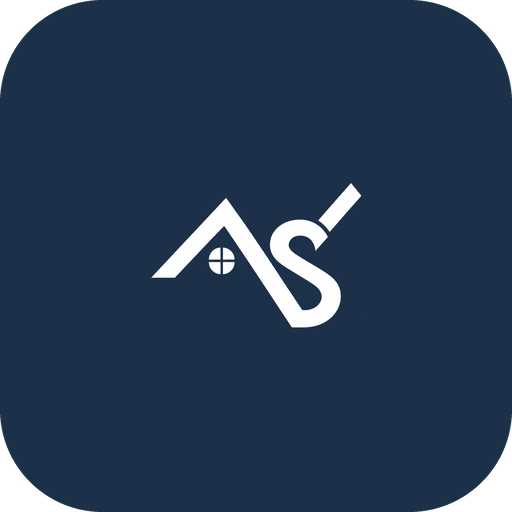
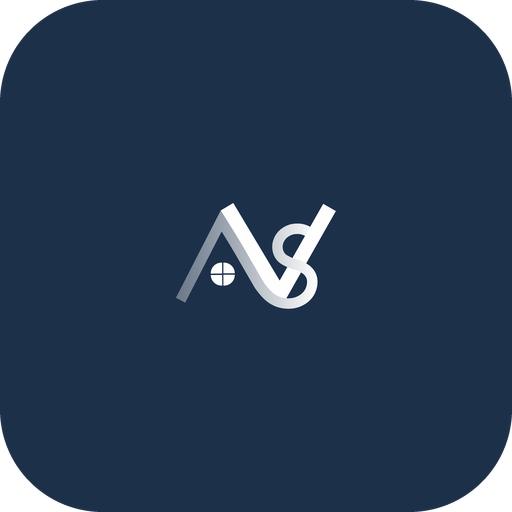
Combine new house/V/S graphic with existing wordmark
Replace the logo's left-side mark with the gradient house/V/S graphic from
the updated brand art, keeping the VICTORY SPRINGS / REALTY GROUP wordmark.
Navy variant maps the gradient to #1C304A; white variant fades via opacity.
Favicons and og-image regenerated from the new mark.

Claude-Session: https://claude.ai/code/session_01C6Rcze9nh4MgRA85bCENKt

Changed region(s): [[0.2812, 0.3438, 0.7188, 0.6562]]

diff --git a/src/components/common/Logo.tsx b/src/components/common/Logo.tsx
@@ -14,7 +14,7 @@ const Logo = ({ variant = "light", className }: LogoProps) => {
         src={variant === "light" ? logoWhite : logoNavy}
         alt="Victory Springs Realty Group"
         width={800}
-        height={256}
+        height={273}
         className={cn("h-10 w-auto transition-opacity", className)}
       />
     </a>
